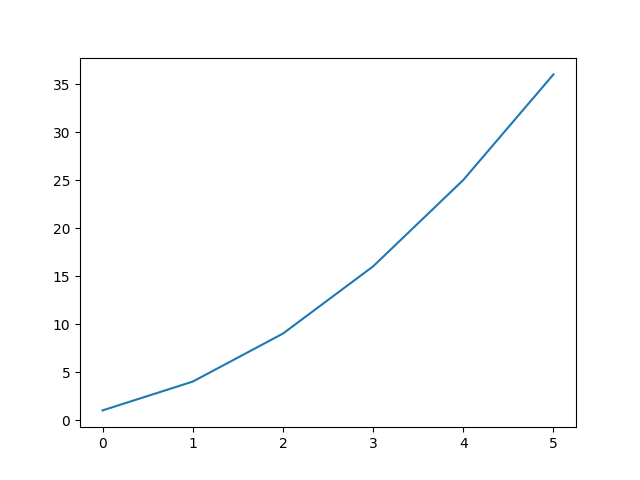
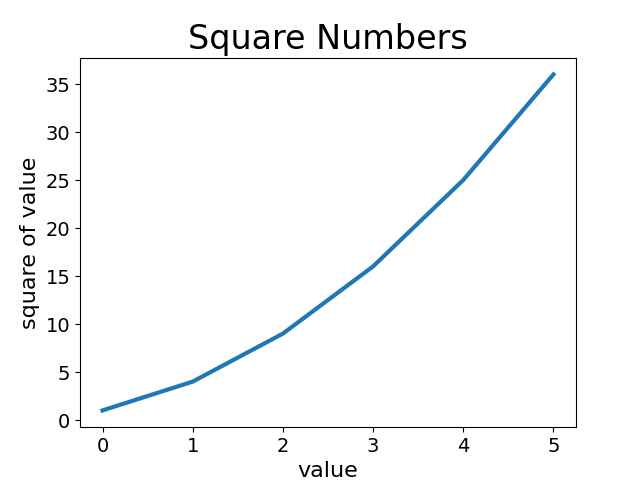
changing the label type and thickness

diff --git a/datascience/mpl_squares.py b/datascience/mpl_squares.py
@@ -5,7 +5,16 @@ import matplotlib.pyplot as plt
 squares=[1,4,9,16,25,36]
 
 fig,ax=plt.subplots()
-ax.plot(squares)
+ax.plot(squares, linewidth=3)
+
+#set chart title and label the axes
+ax.set_title("Square Numbers", fontsize=24)
+ax.set_xlabel("value", fontsize=16)
+ax.set_ylabel("square of value", fontsize=16)
+
+#set size of tick labels.
+ax.tick_params(labelsize=14)
+
 plt.savefig("my_squares.png")
 #plt.show()
 
